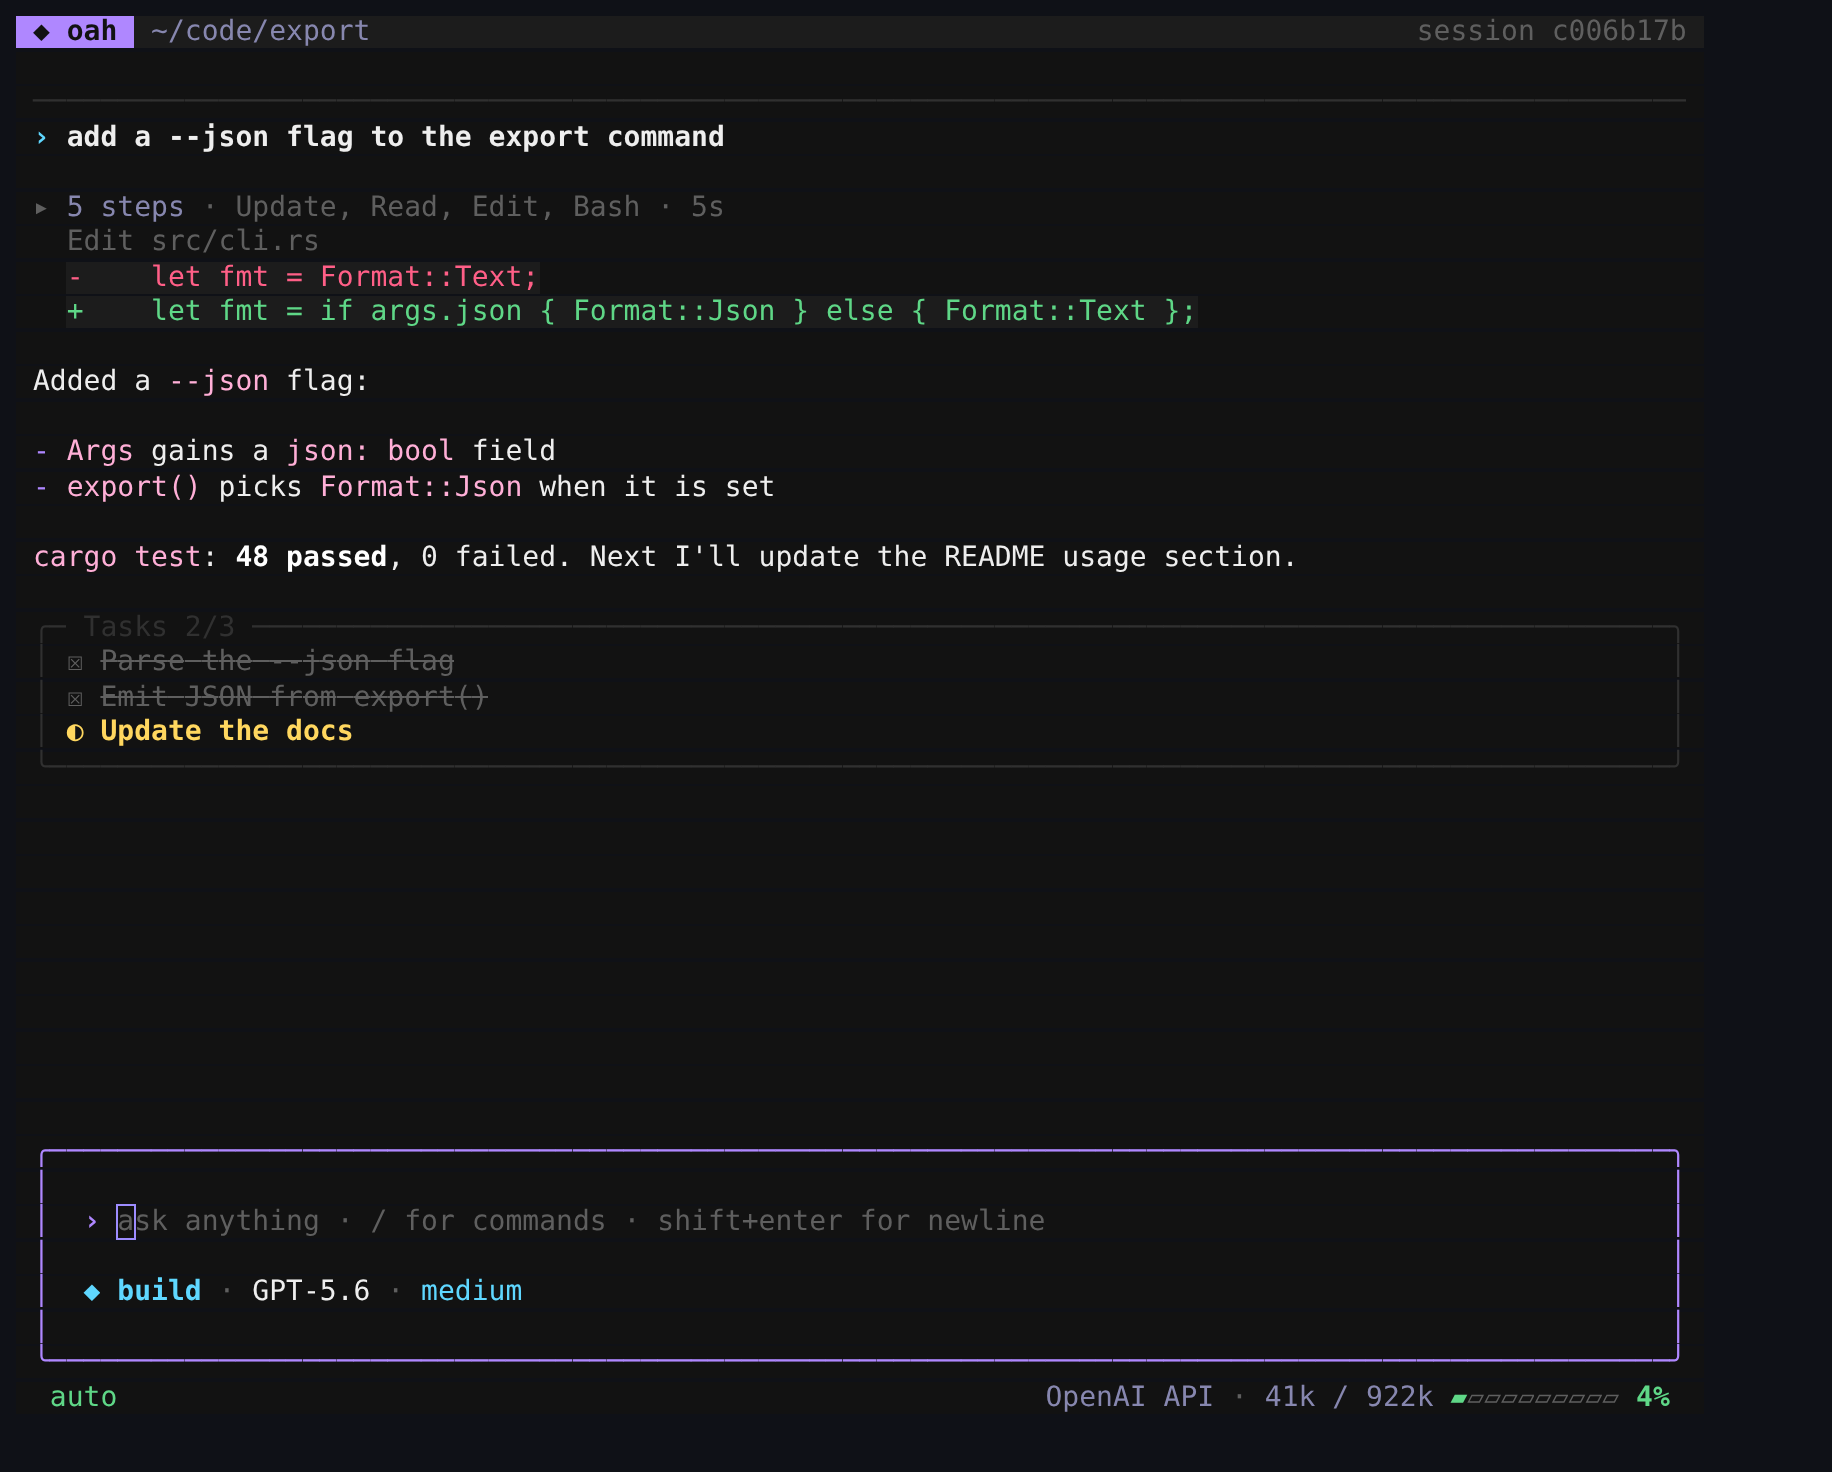
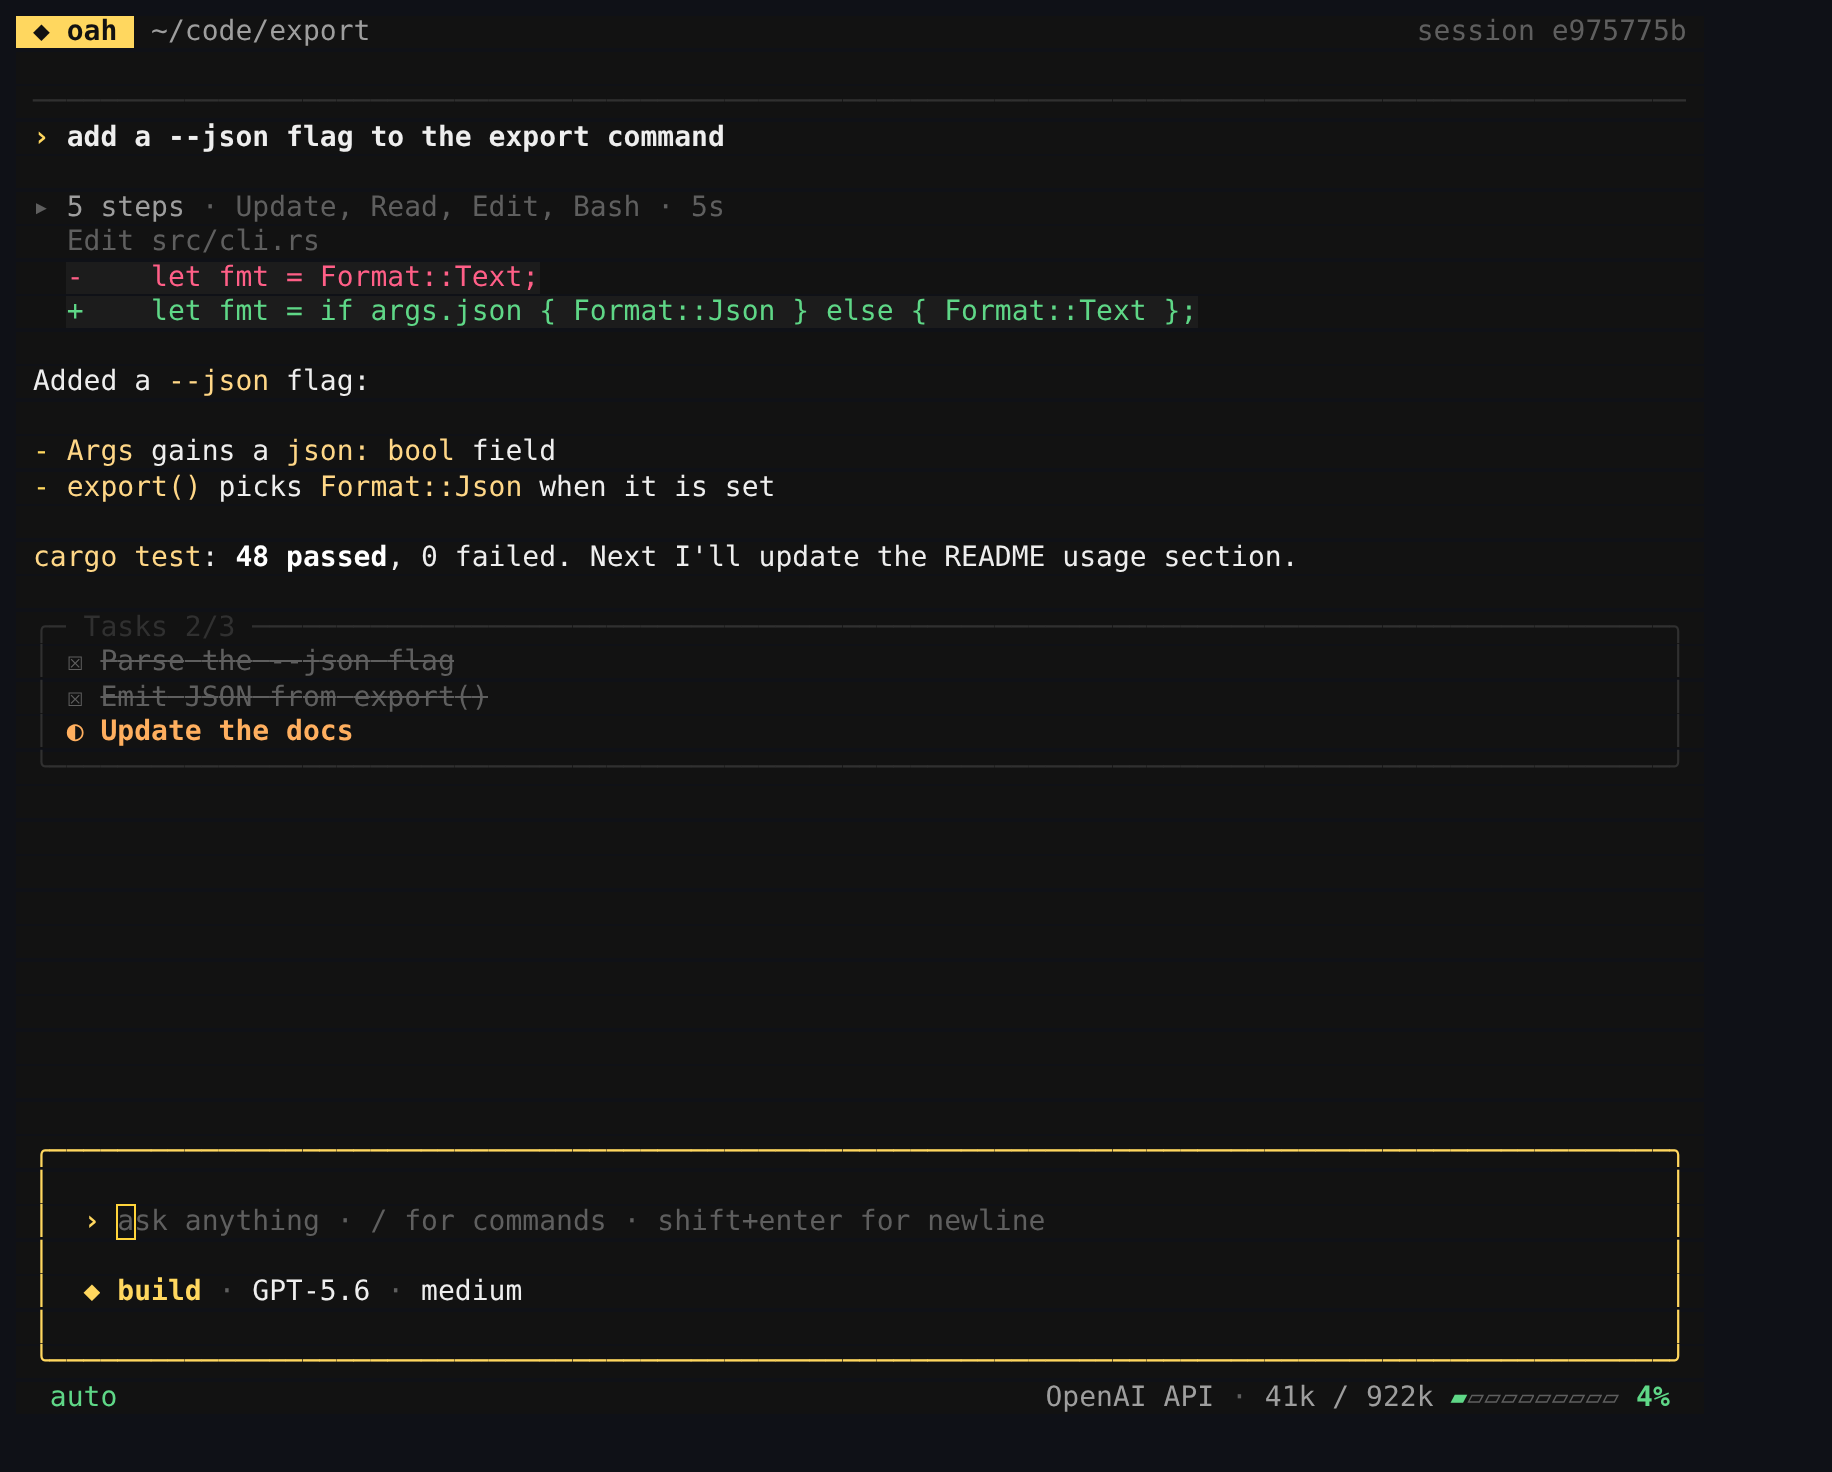
Clean yellow theme
Yellow accent (#ffd43b) for the logo, header, prompt, input box and build
mode; neutral greys instead of blue-tinted ones; plan mode in blue; warnings
in amber so they stay distinct from the accent.

Claude-Session: https://claude.ai/code/session_01EtkEGqhSMYcUzjGit52cRV

diff --git a/src/ui/App.tsx b/src/ui/App.tsx
@@ -263,6 +263,7 @@ export function App({ store, onExit }: { store: Store; onExit: () => void }) {
             </text>
             <textarea
               ref={input}
+            cursorColor={t.accent}
               focused={!store.picker && !store.permission}
               flexGrow={1}
               maxHeight={10}
@@ -341,7 +342,7 @@ function Welcome({ store }: { store: Store }) {
       ]
   return (
     <box flexDirection="column" paddingTop={1} paddingLeft={1}>
-      <ascii-font text="oah" font="block" color={[t.accent, t.cyan]} />
+      <ascii-font text="oah" font="block" color={[t.accent, t.accentDeep]} />
       <text>
         <span fg={t.dim}>an AI coding agent for your terminal</span>
         <span fg={t.faint}> v{VERSION}</span>
@@ -455,7 +456,7 @@ function QuestionBox({ store }: { store: Store }) {
       flexShrink={0}
       border
       borderStyle="rounded"
-      borderColor={t.cyan}
+      borderColor={t.accent}
       title=" oah has a question "
       flexDirection="column"
       paddingLeft={1}
@@ -474,7 +475,7 @@ function QuestionBox({ store }: { store: Store }) {
             const mark = q.multiSelect ? (q.checked.has(i) ? "☒" : "☐") : on ? "›" : " "
             return (
               <box key={i} flexDirection="row" backgroundColor={on ? t.panelHi : t.panel}>
-                <text fg={on ? t.cyan : t.faint} wrapMode="none">
+                <text fg={on ? t.accent : t.faint} wrapMode="none">
                   {` ${mark} ${i + 1}. `}
                 </text>
                 <text fg={on ? t.text : t.dim} wrapMode="none">
@@ -584,7 +585,7 @@ function PickerModal({ store, width, height }: { store: Store; width: number; he
 /** Bottom-left of the input box: mode · model · effort. */
 function InputFooter({ store }: { store: Store }) {
   const s = store.settings
-  const effortColor = s.effort === "high" ? t.accent : s.effort === "xhigh" || s.effort === "max" ? t.orange : s.effort === "medium" ? t.cyan : t.dim
+  const effortColor = s.effort === "high" ? t.accent : s.effort === "xhigh" || s.effort === "max" ? t.orange : s.effort === "medium" ? t.text : t.dim
   return (
     <text wrapMode="none">
       <span fg={s.mode === "plan" ? t.plan : t.build}>

diff --git a/src/ui/theme.ts b/src/ui/theme.ts
@@ -1,27 +1,28 @@
 export const t = {
-  bg: "#0f1117",
-  panel: "#151823",
-  panelHi: "#1d2131",
-  userBg: "#171b2a",
-  border: "#2a2f42",
-  borderHi: "#3a4160",
-  text: "#e6e8ef",
-  dim: "#8a90a6",
-  faint: "#545a72",
-  accent: "#9d8cff",
+  bg: "#0e0e0f",
+  panel: "#161617",
+  panelHi: "#1f1f21",
+  userBg: "#18181a",
+  border: "#2c2c2f",
+  borderHi: "#424246",
+  text: "#ececec",
+  dim: "#9a9a9f",
+  faint: "#5c5c62",
+  accent: "#ffd43b",
+  accentDeep: "#e0a800",
   cyan: "#6cc7ff",
   green: "#63d297",
   red: "#ff6b7d",
-  yellow: "#f2c46d",
-  orange: "#ff9e64",
-  code: "#f0a6ca",
+  yellow: "#ffa94d",
+  orange: "#ff8a4c",
+  code: "#ffe08a",
   addFg: "#63d297",
   addBg: "#14261d",
   delFg: "#ff6b7d",
   delBg: "#2b161b",
-  plan: "#f2c46d",
-  build: "#6cc7ff",
-  you: "#6cc7ff",
+  plan: "#6cc7ff",
+  build: "#ffd43b",
+  you: "#ffd43b",
 } as const
 
 export const SPINNER = ["⠋", "⠙", "⠹", "⠸", "⠼", "⠴", "⠦", "⠧", "⠇", "⠏"]
